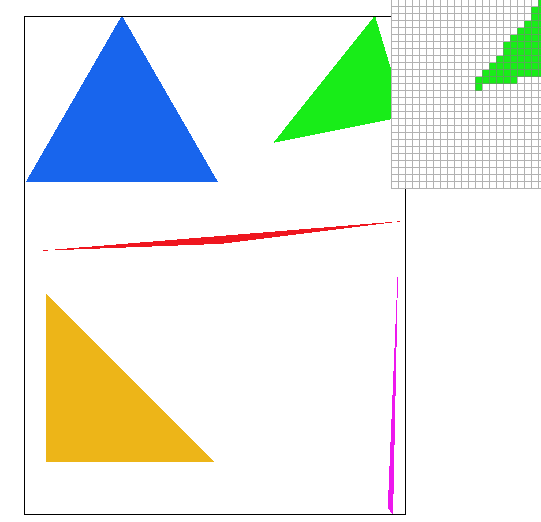
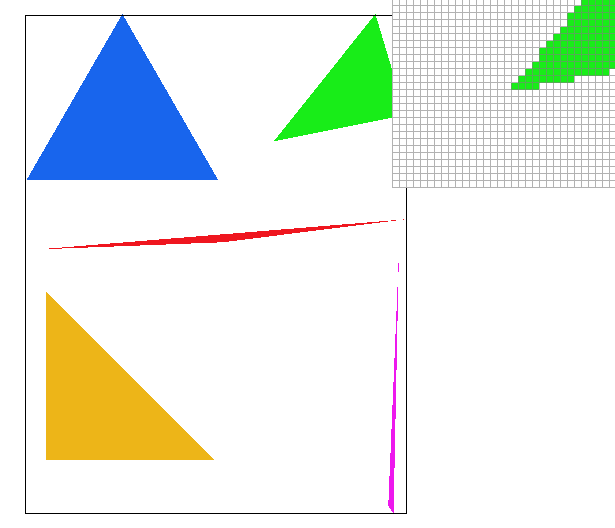
Updated webpage for task 2, 5, 6

Changed region(s): [[0.0296, 0.0, 1.0, 0.9808], [0.0887, 0.3985, 0.6802, 0.4904], [0.7098, 0.613, 0.7394, 1.0]]

diff --git a/proj1/index.html b/proj1/index.html
@@ -166,31 +166,73 @@
   <table style="width=100%">
     <tr>
       <td>
-        <img src="images/task1.png" align="middle" width="400px"/>
-        <figcaption align="middle"><i>nearest neighbor sampling</i></figcaption>
+        <img src="images/task5_near1.png" align="middle" width="400px"/>
+        <figcaption align="middle"><i>Nearest sampling, 1 sample per pixel</i></figcaption>
       </td>
       <td>
-        <img src="images/task1.png" align="middle" width="400px"/>
-        <figcaption align="middle"><i>bilinear sampling</i></figcaption>
+        <img src="images/task5_near16.png" align="middle" width="400px"/>
+        <figcaption align="middle"><i>Nearest sampling, 16 sample per pixel</i></figcaption>
+      </td>
+    </tr>
+    <tr>
+      <td>
+        <img src="images/task5_bi1.png" align="middle" width="400px"/>
+        <figcaption align="middle"><i>Bilinear sampling, 1 sample per pixel</i></figcaption>
+      </td>
+      <td>
+        <img src="images/task5_bi16.png" align="middle" width="400px"/>
+        <figcaption align="middle"><i>Bilinear sampling, 16 sample per pixel</i></figcaption>
       </td>
     </tr>
   </table>
   <br>
 </div>
 
-<p> Above is a screenshot of where bilinear sampling clearly defeats nearest sampling.
+<p> Above is a screenshot of where bilinear sampling clearly defeats nearest sampling (smoother lines and colors).
+  While the different is more apparent at 1 sample per pixel, the quality of the resulting image from each method differs less as we increase the sample rate.
 </p>
 
 
 <h3 align="middle">Part 6: "Level sampling" with mipmaps for texture mapping</h3>
-<p> In part 6, we update our previous implementation to support sampling different mipmap levels. 
-  To do this, we find (du/dx, dv/dx) and (du/dy, dv/dy) which is then used to find L. From L we can calculate
-  the level D as described in lecture.
-
+<p> In part 6, we update our previous implementation to support sampling different mipmap levels. When lsm == L_ZERO, we will simply sample using the specified pixel sampling method
+  from the zero-th level. When lsm == L_NEAREST, we do the same but this time our level will be equal to level D we computed
+  using the method described in lecture rounded to the nearest level. When lsm == L_LINEAR, we take the two adjacent levels, 
+  then compute a weighted sum of using one sample from each of the levels (using the method described in leture).
 </p>
 
-<p>
-</p>
+<div align="middle">
+  <table style="width=100%">
+    <tr>
+      <td>
+        <img src="images/task6_lzero_bi.png" align="middle" width="400px"/>
+        <figcaption align="middle"><i>Level 0, Bilinear Pixel Sampling</i></figcaption>
+      </td>
+      <td>
+        <img src="images/task6_lnear_bi.png" align="middle" width="400px"/>
+        <figcaption align="middle"><i>Nearest Level, Bilinear Pixel Sampling</i></figcaption>
+      </td>
+    </tr>
+    <tr>
+      <td>
+        <img src="images/task6_lbi_near.png" align="middle" width="400px"/>
+        <figcaption align="middle"><i>Bilinear Level, Nearest Pixel Sampling</i></figcaption>
+      </td>
+      <td>
+        <img src="images/task6_lzero_near.png" align="middle" width="400px"/>
+        <figcaption align="middle"><i>Level 0, Nearest Pixel Sampling</i></figcaption>
+      </td>
+    </tr>
+  </table>
+  <br>
+</div>
+
+<p> Using mipmaps require more storage in memory to store information from multiple levels, while decreasing time required to render an image and aliasing.
+</p> 
+
+<br><br><br>
+
+<a href="https://cal-cs184-student.github.io/project-webpages-sp23-ashchangg/proj1/index.html">Project 1 Webpage Link</a>
+<p>https://cal-cs184-student.github.io/project-webpages-sp23-ashchangg/proj1/index.html</p>
 
 </body>
 </html>
